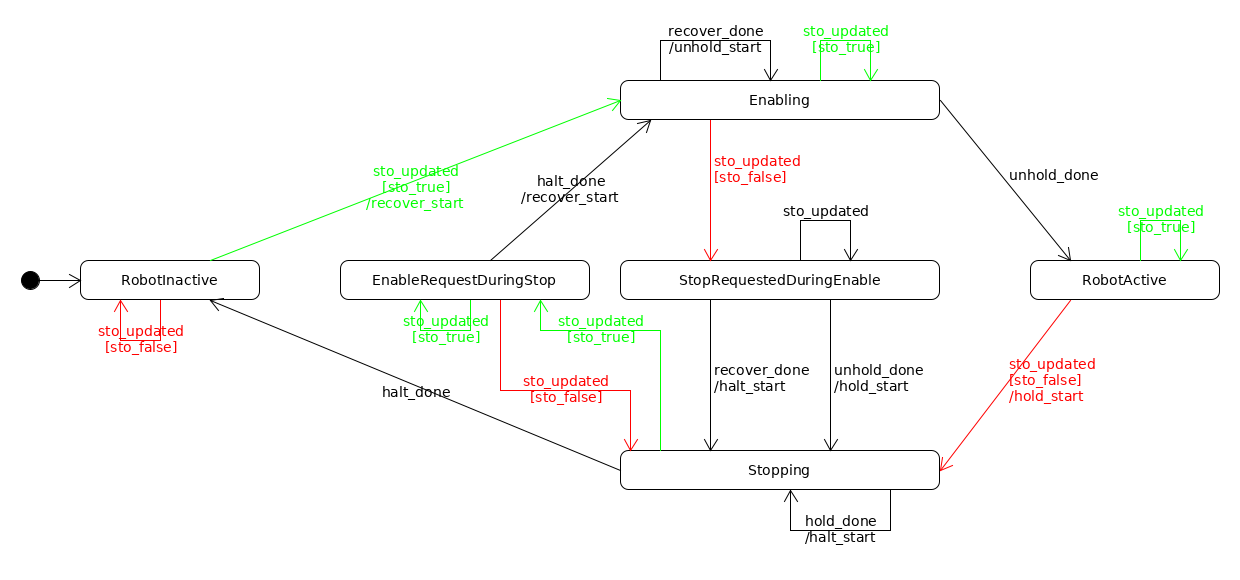
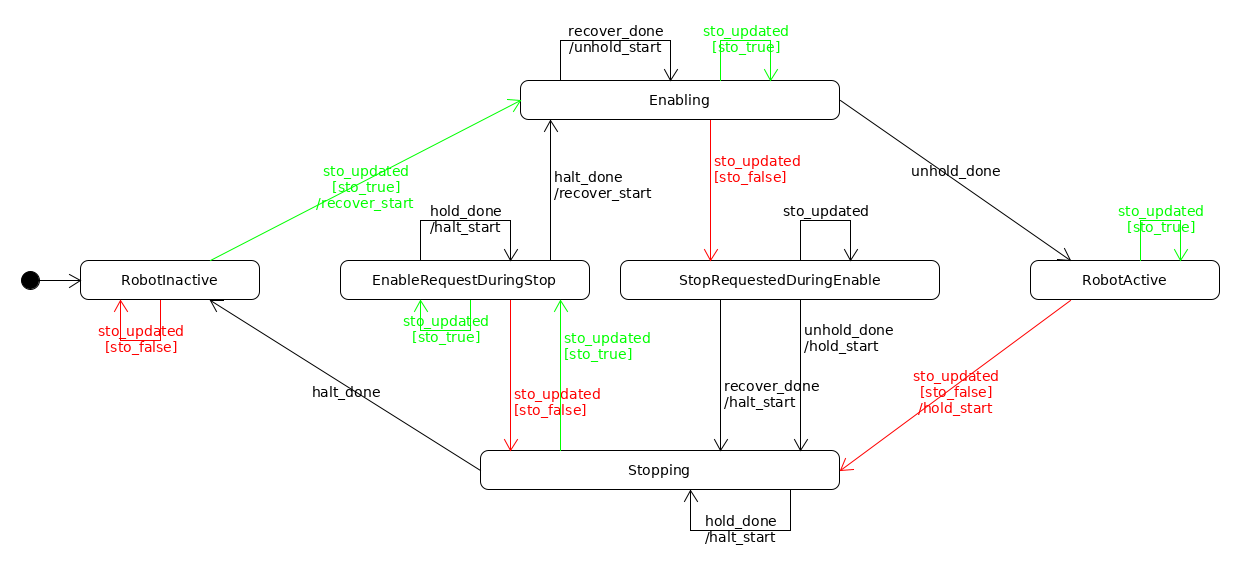
Fix/sto state machine (#235)
* Add missing transition in StoStateMachine. Fixes #234

* Make state names consistent

* Increase function coverage of sto_state_machine.h

* Add spec references

(cherry picked from commit bd621cd3e554223e91f28a7fe391863409c7516a)

diff --git a/prbt_hardware_support/test/unittests/unittest_stop1_executor.cpp b/prbt_hardware_support/test/unittests/unittest_stop1_executor.cpp
@@ -80,8 +80,9 @@ public:
   }
 
   FRIEND_TEST(Stop1ExecutorTest, testExitInStateEnabling);
+  FRIEND_TEST(Stop1ExecutorTest, testExitInStateStopping);
+  FRIEND_TEST(Stop1ExecutorTest, testExitInStateEnableRequestDuringStop);
   FRIEND_TEST(Stop1ExecutorTest, testExitInStateStopRequestedDuringEnable);
-  FRIEND_TEST(Stop1ExecutorTest, testExitDuringPendingHaltCall);
 };
 
 class Stop1ExecutorTest : public ::testing::Test, public ::testing::AsyncTest
@@ -370,6 +371,14 @@ TEST_F(Stop1ExecutorTest, testSpamStoActivePlusEnable)
  * Test skipping hold when sto changes to false during recover.
  * }
  *
+ * @tests{release_of_stop1,
+ * Test skipping hold when sto changes to false during recover.
+ * }
+ *
+ * @tests{release_of_stop1_interrupt,
+ * Test skipping hold when sto changes to false during recover.
+ * }
+ *
  * Test Sequence:
  *  1. Run the sto adapter and call updateSto(true)),
  *     call updateSto(false)) during recover service call and return success, let halt service return success
@@ -432,6 +441,69 @@ TEST_F(Stop1ExecutorTest, testSkippingHoldPlusEnable)
 }
 
 /**
+ * @tests{execution_of_stop1,
+ * Test sending sto change to true while hold call is still pending.
+ * }
+ *
+ * @tests{release_of_stop1,
+ * Test sending sto change to true while hold call is still pending.
+ * }
+ *
+ * Test Sequence:
+ *  1.  Run the sto adapter and call updateSto(true),
+ *      let recover and unhold service return success.
+ *  2.  Call updateSto(false) and updateSto(true) during hold service call,
+ *      let hold, halt, recover and unhold service return success.
+ *
+ * Expected Results:
+ *  1.  Recover and unhold services are called successively.
+ *  2.  Hold, halt, recover and unhold services are called successively.
+ */
+TEST_F(Stop1ExecutorTest, testEnableDuringHoldService)
+{
+  std::unique_ptr<Stop1ExecutorForTests> adapter_sto {createStop1Executor()};
+
+  auto enable_during_hold_action = [this, &adapter_sto]() {
+    adapter_sto->updateSto(true);
+    this->triggerClearEvent(HOLD_SRV_CALLED_EVENT);
+    return true;
+  };
+
+  /**********
+   * Step 1 *
+   **********/
+  {
+    InSequence dummy;
+
+    EXPECT_RECOVER;
+    EXPECT_UNHOLD;
+  }
+
+  adapter_sto->updateSto(true);
+
+  BARRIER({RECOVER_SRV_CALLED_EVENT, UNHOLD_SRV_CALLED_EVENT});
+
+  {
+    InSequence dummy;
+
+    EXPECT_CALL(*this, hold_func())
+        .WillOnce(InvokeWithoutArgs(enable_during_hold_action));
+
+    EXPECT_HALT;
+    EXPECT_RECOVER;
+    EXPECT_UNHOLD;
+  }
+
+  adapter_sto->updateSto(false);
+
+  BARRIER({HOLD_SRV_CALLED_EVENT, HALT_SRV_CALLED_EVENT, RECOVER_SRV_CALLED_EVENT, UNHOLD_SRV_CALLED_EVENT});
+}
+
+/**
+ * @tests{execution_of_stop1,
+ * Test sending sto change to true while halt call is still pending.
+ * }
+ *
  * @tests{release_of_stop1,
  * Test sending sto change to true while halt call is still pending.
  * }
@@ -501,6 +573,11 @@ TEST_F(Stop1ExecutorTest, testEnableDuringHaltService)
  * is still pending.
  * }
  *
+ * @tests{release_of_stop1,
+ * Test sending sto change to true and back to false while halt call
+ * is still pending.
+ * }
+ *
  * Test Sequence:
  *  1. Run the sto adapter and call updateSto(true)).
  *     Call updateSto(false)) during recover service call and return success. (This is not essential for the test)
@@ -553,6 +630,9 @@ TEST_F(Stop1ExecutorTest, testEnableDisableDuringHaltService)
  * Test enabling with failing recover service and retry (stop plus enable).
  * }
  * @tests{release_of_stop1,
+ * Test enabling with failing recover service and retry (stop plus enable).
+ * }
+ * @tests{release_of_stop1_interrupt,
  * Test enabling with failing recover service and retry (stop plus enable).
  * }
  *
@@ -777,7 +857,7 @@ TEST_F(Stop1ExecutorTest, testHoldImmediatelyAfterUnhold)
  * @note This test exists mainly for full function coverage.
  *
  * Test Sequence:
- *  1. Run the sto adapter and call updateSto(true)),
+ *  1. Run the sto adapter and call updateSto(true),
  *     call stopStateMachine() during recover service call and return success,
  *     let unhold service return success
  *
@@ -812,29 +892,23 @@ TEST_F(Stop1ExecutorTest, testExitInStateEnabling)
 }
 
 /**
- * @brief Test stopping the state machine in state StopRequestedDuringRecover.
+ * @brief Test stopping the state machine in state Stopping.
  *
  * @note This test exists mainly for full function coverage.
  *
  * Test Sequence:
- *  1. Run the sto adapter and call updateSto(true)),
- *     call updateSto(false)) and stopStateMachine() during unhold service call,
- *     let hold and halt services return success
+ *  1. Run the sto adapter and call updateSto(true),
+ *     let recover and unhold services return success.
+ *  2. Call updateSto(false) and call stopStateMachine() during hold service call,
+ *     let hold and halt services return success.
  *
  * Expected Results:
- *  1. Recover and unhold services are called successively
+ *  1. Recover and unhold services are called
+ *  2. Hold service is called
  */
-TEST_F(Stop1ExecutorTest, testExitInStateStopRequestedDuringEnable)
+TEST_F(Stop1ExecutorTest, testExitInStateStopping)
 {
   std::unique_ptr<Stop1ExecutorForTests> adapter_sto {createStop1Executor()};
-
-  // define function for unhold-invoke action
-  auto unhold_action = [this, &adapter_sto]() {
-    adapter_sto->updateSto(false);
-    adapter_sto->stopStateMachine();
-    this->triggerClearEvent(UNHOLD_SRV_CALLED_EVENT);
-    return true;
-  };
 
   /**********
    * Step 1 *
@@ -843,54 +917,61 @@ TEST_F(Stop1ExecutorTest, testExitInStateStopRequestedDuringEnable)
     InSequence dummy;
 
     EXPECT_RECOVER;
-    EXPECT_CALL(*this, unhold_func())
-        .WillOnce(InvokeWithoutArgs(unhold_action));
-
-    // do not exclude other service calls as stopping the state machine does not prevent further actions
-    EXPECT_CALL(*this, hold_func())
-        .WillRepeatedly(Return(true));
-
-    EXPECT_HALT;
+    EXPECT_UNHOLD;
   }
 
   adapter_sto->updateSto(true);
 
-  BARRIER({RECOVER_SRV_CALLED_EVENT, UNHOLD_SRV_CALLED_EVENT, HALT_SRV_CALLED_EVENT});
+  BARRIER({RECOVER_SRV_CALLED_EVENT, UNHOLD_SRV_CALLED_EVENT});
+
+  /**********
+   * Step 2 *
+   **********/
+  // define function for hold-invoke action
+  auto hold_action = [this, &adapter_sto]() {
+    adapter_sto->stopStateMachine();
+    this->triggerClearEvent(HOLD_SRV_CALLED_EVENT);
+    return true;
+  };
+
+  {
+    InSequence dummy;
+
+    EXPECT_CALL(*this, hold_func())
+        .WillOnce(InvokeWithoutArgs(hold_action));
+
+    // do not exclude other service calls as stopping the state machine does not prevent further actions
+    EXPECT_CALL(*this, halt_func())
+        .WillRepeatedly(Return(true));
+  }
+
+  adapter_sto->updateSto(false);
+
+  BARRIER({HOLD_SRV_CALLED_EVENT});
 }
 
 /**
- * @brief Test stopping the state machine in state StopRequestedDuringRecover.
+ * @brief Test stopping the state machine in state StopRequestedDuringEnable.
  *
  * @note This test exists mainly for full function coverage.
  *
  * Test Sequence:
  *  1. Run the sto adapter and call updateSto(true)),
- *    call updateSto(false)) and stopStateMachine() during unhold service call
- *    and return success,
- *    let hold and halt services return success
+ *     call updateSto(false)) and stopStateMachine() during recover service call,
+ *     let recover and halt services return success.
  *
  * Expected Results:
- *  1. Recover and unhold services are called successively
+ *  1. Recover is called.
  */
-TEST_F(Stop1ExecutorTest, testExitDuringPendingHaltCall)
+TEST_F(Stop1ExecutorTest, testExitInStateStopRequestedDuringEnable)
 {
   std::unique_ptr<Stop1ExecutorForTests> adapter_sto {createStop1Executor()};
 
   // define function for recover-invoke action
-  auto sto_false_during_recover_action = [this, &adapter_sto]() {
-    this->triggerClearEvent(RECOVER_SRV_CALLED_EVENT);
+  auto recover_action = [this, &adapter_sto]() {
     adapter_sto->updateSto(false);
-    return true;
-  };
-
-  auto false_recover_action = []() {
-    return false;
-  };
-
-  auto enable_during_halt_action = [this, &adapter_sto]() {
-    adapter_sto->updateSto(true);
     adapter_sto->stopStateMachine();
-    this->triggerClearEvent(HALT_SRV_CALLED_EVENT);
+    this->triggerClearEvent(RECOVER_SRV_CALLED_EVENT);
     return true;
   };
 
@@ -901,19 +982,81 @@ TEST_F(Stop1ExecutorTest, testExitDuringPendingHaltCall)
     InSequence dummy;
 
     EXPECT_CALL(*this, recover_func())
-        .WillOnce(InvokeWithoutArgs(sto_false_during_recover_action));
+        .WillOnce(InvokeWithoutArgs(recover_action));
 
+    // do not exclude other service calls as stopping the state machine does not prevent further actions
     EXPECT_CALL(*this, halt_func())
-        .WillOnce(InvokeWithoutArgs(enable_during_halt_action));
-
-    EXPECT_CALL(*this, recover_func())
-        .Times(AtLeast(0)) // Not nice but at this point not easy to say...
-        .WillOnce(InvokeWithoutArgs(false_recover_action));
+        .WillRepeatedly(Return(true));
   }
 
   adapter_sto->updateSto(true);
 
-  BARRIER({RECOVER_SRV_CALLED_EVENT, HALT_SRV_CALLED_EVENT});
+  BARRIER(RECOVER_SRV_CALLED_EVENT);
+}
+
+/**
+ * @brief Test stopping the state machine in state EnableRequestDuringStop.
+ *
+ * @note This test exists mainly for full function coverage.
+ *
+ * Test Sequence:
+ *  1. Run the sto adapter and call updateSto(true),
+ *     let recover and unhold services return success
+ *  2. Call updateSto(false),
+ *     call updateSto(true) and stopStateMachine() during hold service call
+ *     and return success, let halt, recover and unhold services also return success
+ *
+ * Expected Results:
+ *  1. Recover and unhold services are called successively
+ *  2. Hold service is called
+ */
+TEST_F(Stop1ExecutorTest, testExitInStateEnableRequestDuringStop)
+{
+  std::unique_ptr<Stop1ExecutorForTests> adapter_sto {createStop1Executor()};
+
+  /**********
+   * Step 1 *
+   **********/
+  {
+    InSequence dummy;
+
+    EXPECT_RECOVER;
+    EXPECT_UNHOLD;
+  }
+
+  adapter_sto->updateSto(true);
+
+  BARRIER({RECOVER_SRV_CALLED_EVENT, UNHOLD_SRV_CALLED_EVENT});
+
+  /**********
+   * Step 2 *
+   **********/
+
+  auto enable_during_hold_action = [this, &adapter_sto]() {
+    adapter_sto->updateSto(true);
+    adapter_sto->stopStateMachine();
+    this->triggerClearEvent(HOLD_SRV_CALLED_EVENT);
+    return true;
+  };
+
+  {
+    InSequence dummy;
+
+    EXPECT_CALL(*this, hold_func())
+        .WillOnce(InvokeWithoutArgs(enable_during_hold_action));
+
+    // do not exclude other service calls as stopping the state machine does not prevent further actions
+    EXPECT_CALL(*this, halt_func())
+        .WillRepeatedly(Return(true));
+    EXPECT_CALL(*this, recover_func())
+        .WillRepeatedly(Return(true));
+    EXPECT_CALL(*this, unhold_func())
+        .WillRepeatedly(Return(true));
+  }
+
+  adapter_sto->updateSto(false);
+
+  BARRIER(HOLD_SRV_CALLED_EVENT);
 }
 
 

diff --git a/prbt_hardware_support/include/prbt_hardware_support/sto_state_machine.h b/prbt_hardware_support/include/prbt_hardware_support/sto_state_machine.h
@@ -196,7 +196,7 @@ public:
     }
   };
 
-  struct EnableRequestDuringStop : public msm::front::state<>
+  struct EnableRequestedDuringStop : public msm::front::state<>
   {
     template <class Event, class FSM>
     void on_entry(Event const &ev, FSM &)
@@ -349,12 +349,13 @@ public:
   Row< StopRequestedDuringEnable , unhold_done  , Stopping                  , hold_start   , none     >,
   Row< RobotActive               , sto_updated  , none                      , none         , sto_true >,
   Row< RobotActive               , sto_updated  , Stopping                  , hold_start   , sto_false>,
-  Row< Stopping                  , sto_updated  , EnableRequestDuringStop   , none         , sto_true >,
+  Row< Stopping                  , sto_updated  , EnableRequestedDuringStop , none         , sto_true >,
   Row< Stopping                  , hold_done    , none                      , halt_start   , none     >,
   Row< Stopping                  , halt_done    , RobotInactive             , none         , none     >,
-  Row< EnableRequestDuringStop   , halt_done    , Enabling                  , recover_start, none     >,
-  Row< EnableRequestDuringStop   , sto_updated  , Stopping                  , none         , sto_false>,
-  Row< EnableRequestDuringStop   , sto_updated  , none                      , none         , sto_true >
+  Row< EnableRequestedDuringStop , hold_done    , none                      , halt_start   , none     >,
+  Row< EnableRequestedDuringStop , halt_done    , Enabling                  , recover_start, none     >,
+  Row< EnableRequestedDuringStop , sto_updated  , Stopping                  , none         , sto_false>,
+  Row< EnableRequestedDuringStop , sto_updated  , none                      , none         , sto_true >
   // +---------------------------+--------------+---------------------------+--------------+----------+
   > {};
 
